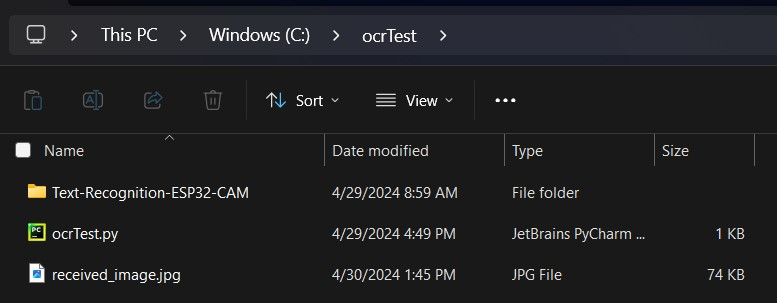
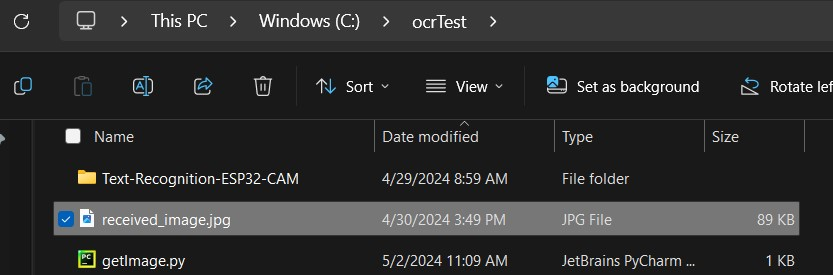
Week 13 documentation

diff --git a/docs/lessons/week14/interfacing.md b/docs/lessons/week14/interfacing.md
@@ -1,0 +1,15 @@
+# Camera Interface
+
+I wanted to align my work this week to help me on developing my final project. As such, I chose to create a web GUI to interact with the ESP32CAM. My documentation for setting up the ESP32CAM can be found on my documentation for <a href="https://fabacademy.org/2024/labs/charlotte/students/richard-shan/lessons/week11/cameraFRT/">**Input Devices**</a> and <a href="https://fabacademy.org/2024/labs/charlotte/students/richard-shan/lessons/week13/networking/">**Networking**</a>. 
+
+To create a web-based locally hosted GUI to access the ESP32CAM, I need to do a few things:
+
+ - Connect to the WiFi network
+ - Receive an assigned IP from the router
+ - At the IP address, locate an open port
+ - Setup URI paths for backend control (e.g. buttons for taking picture) (/status gives status) - they are all serviced on the same port but differ by path
+ - Setup URI path for the actual camera access. (IPADDRESS/capture is used for taking a picture)
+ - Startup the server on the IP
+ - Serve the graphical user interface HTML onto the IP
+ - Upon receiving an input, the HTML will do something (what is this something?) and send the request along a URI path designed for handling that.
+

diff --git a/docs/lessons/week13/networking.md b/docs/lessons/week13/networking.md
@@ -259,7 +259,7 @@ When the query returns the image, it is saved in the same directory as the pytho
 LastWriteTime         Length 				Name
 ----                  -------------         ------ ----
 4/29/2024   8:59 AM                			Text-Recognition-ESP32-CAM
-4/29/2024   5:09 PM            933 			<b>ocrTest.py</b>
+4/29/2024   5:09 PM            933 			<b>getImage.py</b>
 4/29/2024   5:11 PM          72213 			<b><u>received_image.jpg</u></b>
 </code></pre>
 
